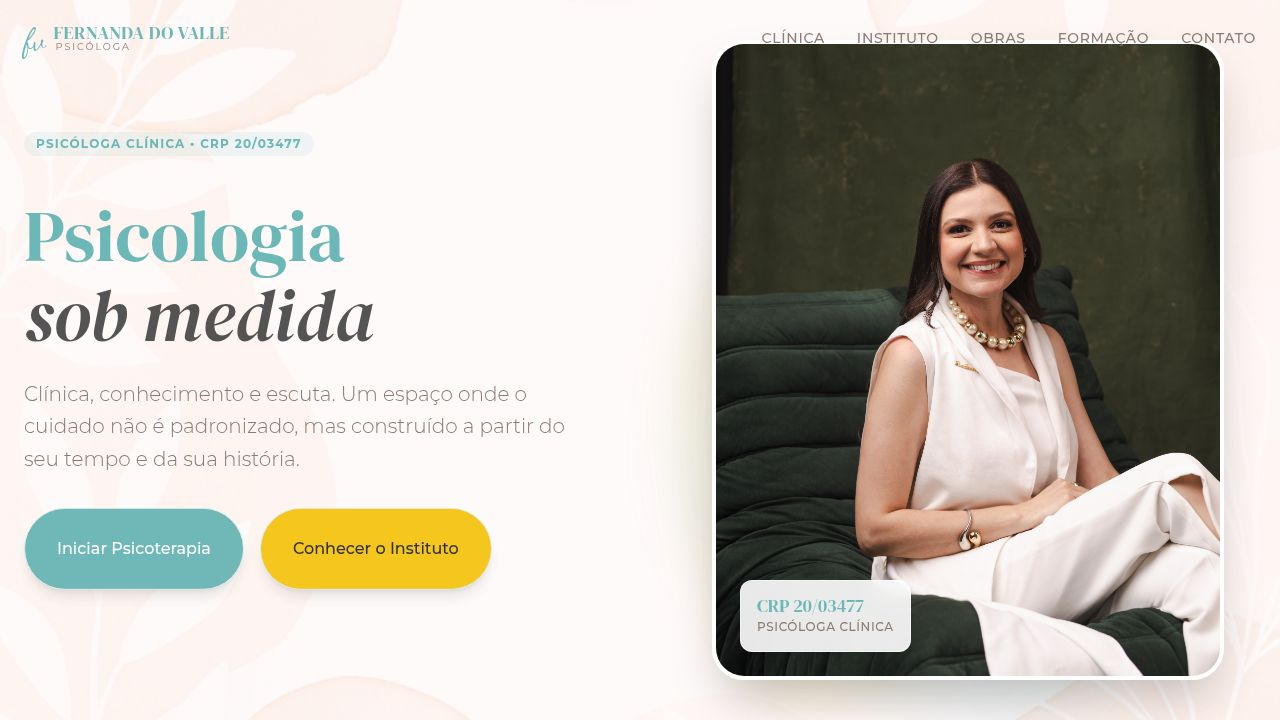
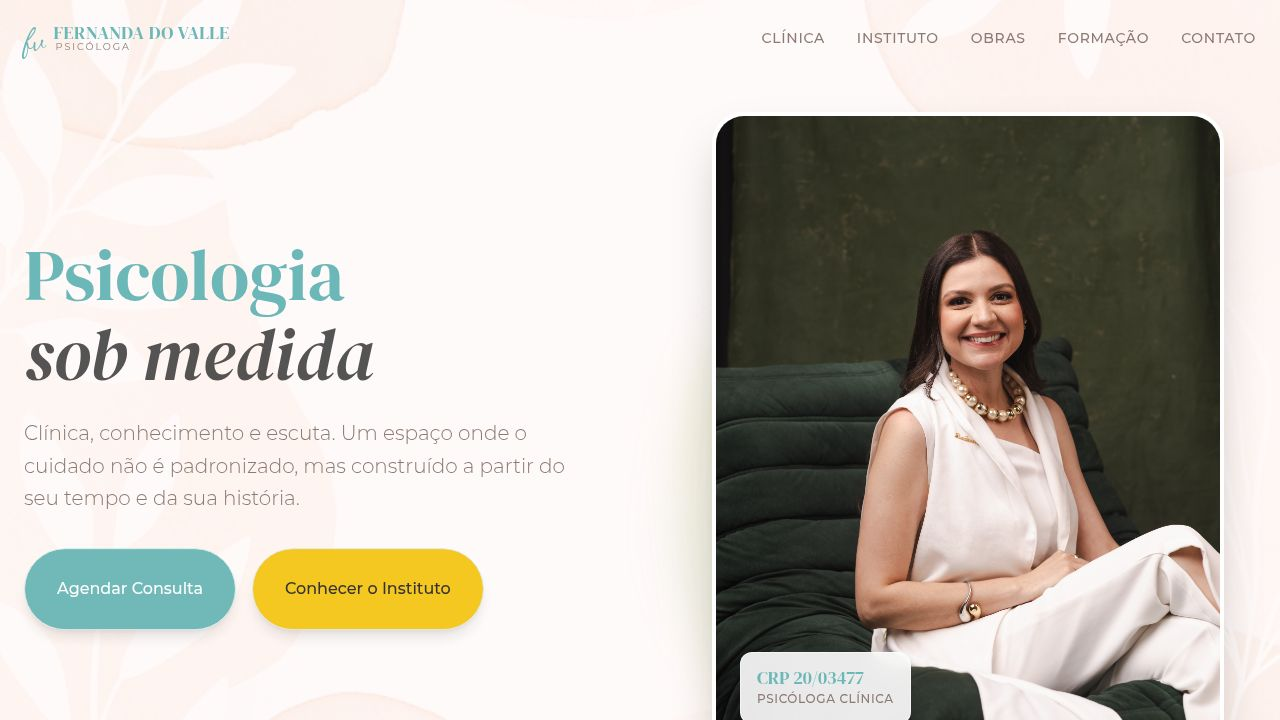
Update button text to "Agendar Consulta" for scheduling consultations
Modify the Hero section component to change the primary call-to-action button text from "Iniciar Psicoterapia" to "Agendar Consulta".

Replit-Commit-Author: Agent
Replit-Commit-Session-Id: 33b62f91-d090-45db-975d-e9710744dc47
Replit-Commit-Checkpoint-Type: full_checkpoint
Replit-Commit-Event-Id: 1096cc90-709f-467e-a8f6-d6fabc2fdcb7
Replit-Commit-Screenshot-Url: https://storage.googleapis.com/screenshot-production-us-central1/0e7fdacd-9b51-462e-95d2-d29cd5bb538e/33b62f91-d090-45db-975d-e9710744dc47/k0iPKS4
Replit-Helium-Checkpoint-Created: true

diff --git a/client/src/components/sections/Hero.tsx b/client/src/components/sections/Hero.tsx
@@ -50,7 +50,7 @@ export function Hero() {
                 onClick={() => scrollToSection("clinica")}
                 className="bg-primary hover:bg-[#5A9999] text-white rounded-full px-8 py-7 text-base shadow-lg hover:shadow-primary/20 transition-all duration-300"
               >
-                Iniciar Psicoterapia
+                Agendar Consulta
               </Button>
               <Button 
                 onClick={() => scrollToSection("instituto")}
